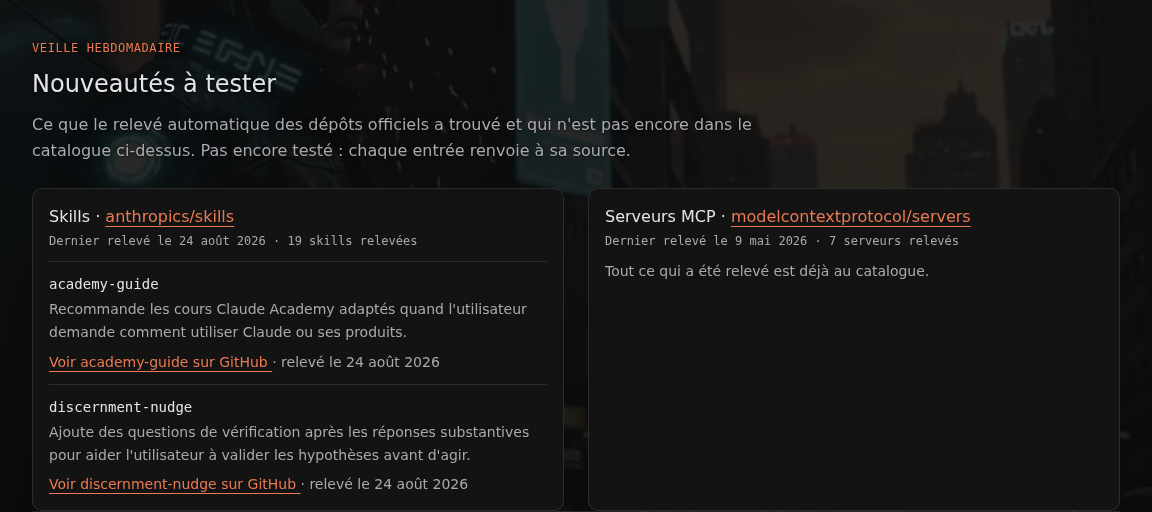
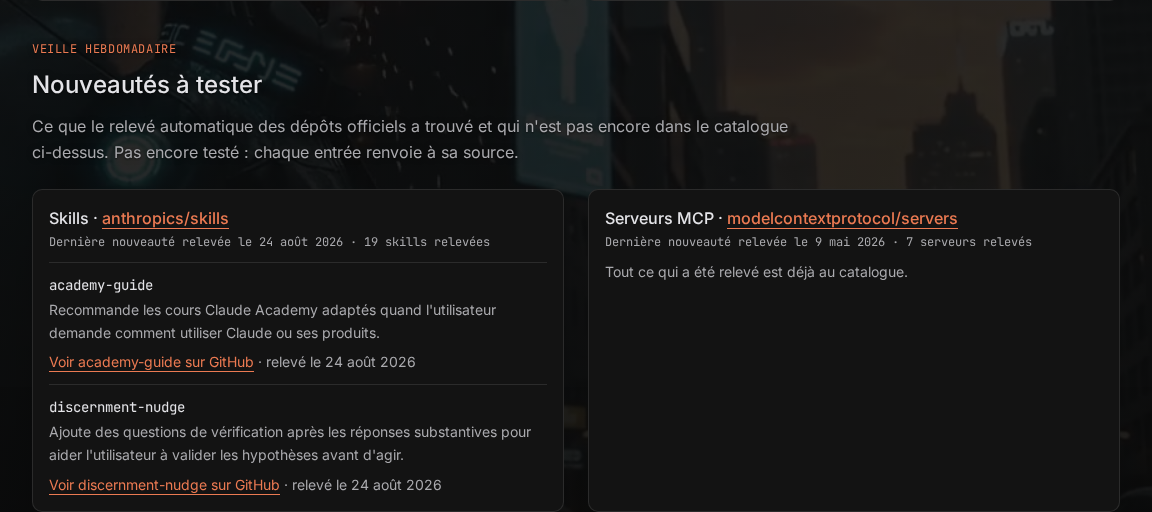
fix(L35): « Dernier relevé le » date le dernier passage du batch, plus la dernière nouveauté
Revue de code de L35 : la date venait du plus grand fetchedAt, que le batch ne pose
qu'à la première apparition d'un élément (MCP « 9 mai » alors que le batch a tourné
le 23-11). Le batch note désormais l'instant de chaque passage réussi d'une source
dans frontend/src/data/feeds/derniers-releves.json (une source en échec ne bouge pas
sa date) ; le bloc affiche « Dernier relevé le » de ce fichier, sinon « Dernière
nouveauté relevée le » (fetchedAt). Fichier vide au départ : aucune date de passage
n'est prouvée avant le prochain batch.

Tests : l35-dernier-releve (échoue avec l'ancien calcul, branche flux vide rendue,
batch), l35 unitaires et e2e ajustés. README (/ecosystem, section du batch),
docs/qa/expectations.md, entrée Nouveautés et capture mises à jour.

diff --git a/scripts/lib/feeds.ts b/scripts/lib/feeds.ts
@@ -10,6 +10,31 @@ export function feedPath(source: string): string {
   return resolve(FEEDS_DIR, `${source}.json`);
 }
 
+/**
+ * L35 — date du dernier passage RÉUSSI du batch sur chaque source ({ "<source>": "<ISO>" }).
+ * Le `fetchedAt` d'une entrée n'est posé qu'à sa première apparition : il date la dernière
+ * nouveauté, pas le dernier relevé. /ecosystem lit ce fichier au build (« Dernier relevé le … »).
+ */
+export const RELEVES_PATH = resolve(FEEDS_DIR, "derniers-releves.json");
+
+export function readReleves(path = RELEVES_PATH): Record<string, string> {
+  if (!existsSync(path)) return {};
+  try {
+    const data = JSON.parse(readFileSync(path, "utf-8"));
+    return data && typeof data === "object" && !Array.isArray(data) ? data : {};
+  } catch {
+    return {};
+  }
+}
+
+/** Note le passage réussi de `source` à `instant`, sans toucher aux autres sources. */
+export function writeReleve(source: string, instant: string, path = RELEVES_PATH): void {
+  const releves = { ...readReleves(path), [source]: instant };
+  const tries = Object.fromEntries(Object.entries(releves).sort(([a], [b]) => a.localeCompare(b)));
+  mkdirSync(dirname(path), { recursive: true });
+  writeFileSync(path, JSON.stringify(tries, null, 2) + "\n");
+}
+
 export function hashUrl(url: string): string {
   return createHash("sha256").update(url).digest("hex").slice(0, 16);
 }

diff --git a/scripts/batch-update.ts b/scripts/batch-update.ts
@@ -18,7 +18,7 @@
 import { mkdirSync, writeFileSync } from "node:fs";
 import { resolve } from "node:path";
 
-import { FEEDS_DIR, ROOT, readFeed, writeFeed } from "./lib/feeds.js";
+import { FEEDS_DIR, ROOT, readFeed, writeFeed, writeReleve } from "./lib/feeds.js";
 import type { RawEntry, SourceModule } from "./lib/types.js";
 import { summarize } from "./lib/claude.js";
 import { processSource, type ProcessDeps } from "./lib/process-source.js";
@@ -74,13 +74,13 @@ async function summarizeWithFallback(
 }
 
 function depsFor(opts: Options): ProcessDeps {
+  const previewDir = "/tmp/codex-feeds";
   return {
     readFeed,
     summarize: (raw, source) =>
       summarizeWithFallback(raw, source, opts.noSummarize),
     writeFeed: (source, entries) => {
       if (opts.dryRun) {
-        const previewDir = "/tmp/codex-feeds";
         mkdirSync(previewDir, { recursive: true });
         writeFileSync(
           resolve(previewDir, `${source}.json`),
@@ -91,6 +91,10 @@ function depsFor(opts: Options): ProcessDeps {
         writeFeed(source, entries);
         console.log(`  wrote ${entries.length} entries to feeds/${source}.json`);
       }
+    },
+    noteReleve: (source, instant) => {
+      if (opts.dryRun) writeReleve(source, instant, resolve(previewDir, "derniers-releves.json"));
+      else writeReleve(source, instant);
     },
   };
 }

diff --git a/scripts/lib/process-source.ts b/scripts/lib/process-source.ts
@@ -13,6 +13,11 @@ export interface ProcessDeps {
   writeFeed(source: string, entries: FeedEntry[]): void;
   summarize(raw: RawEntry, source: string): Promise<string>;
   now?(): string;
+  /**
+   * L35 : appelé une fois la source relevée et son flux écrit, avec l'instant du passage.
+   * Une source en échec (exception) ne l'atteint pas : sa date de dernier relevé ne bouge pas.
+   */
+  noteReleve?(source: string, instant: string): void;
 }
 
 export async function processSource(
@@ -66,5 +71,6 @@ export async function processSource(
 
   const merged = dedupeByUrl(existing, fresh, 50);
   deps.writeFeed(source.NAME, merged);
+  deps.noteReleve?.(source.NAME, now);
   return { source: source.NAME, added, total: merged.length };
 }

diff --git a/README.md b/README.md
@@ -21,7 +21,7 @@ officielle avec Anthropic.
 |------|-------|
 | `/start` | **Démarrer** — Claude Code pour les vrais débutants. Pas de jargon, 7 sections progressives, exemples copy-pastable. La porte d'entrée du site. |
 | `/theory` | Comment Claude Code fonctionne sous le capot — architecture agentique, context window, sessions, hooks, slash commands, MCP, skills, agents SDK · bloc de revue du contenu |
-| `/ecosystem` | Catalogue triable des plugins, MCP servers, skills officiels Anthropic et SDKs, puis **Actualités de l'écosystème** : nouveautés retenues par la veille, la plus récente en tête, chacune datée (publication ou relevé) et sourcée (`frontend/src/data/veille-ecosysteme.mjs`). Porte le bloc de revue du contenu (voir [Revue du contenu](#revue-du-contenu)) |
+| `/ecosystem` | Catalogue triable des plugins, MCP servers, skills officiels Anthropic et SDKs, puis **Actualités de l'écosystème** : nouveautés retenues par la veille, la plus récente en tête, chacune datée (publication ou relevé) et sourcée (`frontend/src/data/veille-ecosysteme.mjs`), puis **Nouveautés à tester** : les skills d'anthropics/skills et les serveurs MCP de modelcontextprotocol/servers relevés par le batch hebdomadaire et absents du catalogue, avec leur lien, leur résumé et la date du dernier relevé de chaque flux (lus au build dans `frontend/src/data/feeds/`, voir [le batch](#mise-à-jour-hebdo)). Porte le bloc de revue du contenu (voir [Revue du contenu](#revue-du-contenu)) |
 | `/case-studies` | 7 deep-dives d'apps perso construites en pair-programming + récits transverses (K8s migration overnight, AetherWX encyclopedia, **Cadence** — la méthode de travail, ses chiffres mesurés et ses échecs, illustrée par trois schémas SVG (plan relié aux commits, parcours d'un lot, chaîne du livreur ; les schémas Mermaid, comme ceux de l'étude AetherWX, gardent un texte rendu à 11 px ou plus à 360–390 px et défilent dans leur cadre quand ils sont plus larges que l'écran) lisibles en thème clair et sombre — composants `Schema`, `StepChain` (description accessible du svg composée des étapes : titre, détail, qui), `Callout` —, `/case-studies/cadence`, et **Pourquoi cadence** — les cinq besoins qui l'ont fait naître, sa définition en une phrase, les preuves chiffrées du banc A/B, chacune datée et sourcée dans le dépôt cadence, et ce que les mesures ne prouvent pas, `/case-studies/pourquoi-cadence`) + section **Tools tested** (RTK adopté, Ruflo rejeté+8 leçons, code-review-graph adopt-conditional) ; la liste des outils testés porte le bloc de revue du contenu |
 | `/atelier-ia` | L'atelier IA perso — quels outils (Claude Code, Codex…), quels rôles, quelles frontières |
 | `/k8s-for-java-developers` | **Guide** — introduction Kubernetes pour dev Java, du jar au pod |
@@ -125,6 +125,17 @@ lundi à 06:00 UTC :
 
 Le composant `LatestNews.astro` lit ces feeds JSON au build time pour
 afficher les 10 articles les plus récents sur `/learning`.
+
+Le composant `NouveautesATester.astro` (`/ecosystem`) lit au build
+`github-anthropics-skills.json` et `github-mcp-servers.json` : il montre les
+éléments absents du catalogue (`frontend/src/data/ecosystem.ts`, même lien ou
+même nom). Le batch note aussi, pour chaque source relevée sans erreur, l'instant
+de son passage dans `frontend/src/data/feeds/derniers-releves.json` : c'est la
+date « Dernier relevé le … » du bloc. Le `fetchedAt` d'une entrée n'est posé
+qu'à sa première apparition ; il ne date que la dernière nouveauté, et le bloc
+n'affiche que « Dernière nouveauté relevée le … » tant qu'aucun passage n'est
+noté. Le build échoue si un lien de ces flux sort du dépôt de la source, si un
+fichier de flux manque ou si une date est illisible.
 
 Secrets requis dans le repo GitHub : `ANTHROPIC_API_KEY`, `YOUTUBE_API_KEY`
 (optionnel, pour `/videos`).

diff --git a/docs/qa/expectations.md b/docs/qa/expectations.md
@@ -43,9 +43,9 @@ shows: chaque schéma rendu (svg présent) ; texte SVG ≥ 11 px rendus à 390 p
 shows: h1 non vide ; contenu non vide (au moins 4 000 caractères de texte) ; liens sortants avec un href réel
 
 ## /ecosystem/ — nouveautés à tester (L35)
-shows: section « Nouveautés à tester » (`[data-a-tester]`) ; un bloc par flux, `[data-flux="github-anthropics-skills"]` et `[data-flux="github-mcp-servers"]`, chacun avec « Dernier relevé le <date> · <n> … » ; au moins une entrée tant que le flux des skills a un élément hors catalogue, chacune avec un lien « Voir <nom> sur GitHub » identique à une `url` de frontend/src/data/feeds/ et « relevé le <date> » ; un bloc sans nouveauté dit « Tout ce qui a été relevé est déjà au catalogue. » ; à 390 px, aucun défilement latéral
-never: une entrée déjà au catalogue (même lien source ou même nom) ; un lien qui ne vient pas d'un flux ; un bloc vide sans message ; un en-tête YAML brut (`---`, `name:`) dans un extrait
-Test : `tests/l35-nouveautes-a-tester.test.mjs` et `tests/l35-nouveautes-a-tester.e2e.test.mjs`.
+shows: section « Nouveautés à tester » (`[data-a-tester]`) ; un bloc par flux, `[data-flux="github-anthropics-skills"]` et `[data-flux="github-mcp-servers"]`, chacun avec « Dernier relevé le <date> · <n> … », la date étant le jour du dernier passage du batch noté dans frontend/src/data/feeds/derniers-releves.json (sans passage noté : « Dernière nouveauté relevée le <date> · <n> … », sans élément : « Aucun relevé pour l'instant » et « Rien à montrer. ») ; au moins une entrée tant que le flux des skills a un élément hors catalogue, chacune avec un lien « Voir <nom> sur GitHub » identique à une `url` de frontend/src/data/feeds/ et « relevé le <date> » ; un bloc sans nouveauté dit « Tout ce qui a été relevé est déjà au catalogue. » ; à 390 px, aucun défilement latéral
+never: « Dernier relevé le » daté d'un fetchedAt (date de la dernière nouveauté, pas du relevé) ; une entrée déjà au catalogue (même lien source ou même nom) ; un lien qui ne vient pas d'un flux ; un bloc vide sans message ; un en-tête YAML brut (`---`, `name:`) dans un extrait
+Test : `tests/l35-nouveautes-a-tester.test.mjs`, `tests/l35-dernier-releve.test.mjs` et `tests/l35-nouveautes-a-tester.e2e.test.mjs`.
 
 ## /<route inexistante>/
 shows: statut 404 (livré par L28) ; h1 « Cette page n'existe pas » ; un lien « Retour à l'accueil » vers /

diff --git a/docs/nouveautes/2026-11-27-l-ecosysteme-montre-les-nouveautes-a-tester.md b/docs/nouveautes/2026-11-27-l-ecosysteme-montre-les-nouveautes-a-tester.md
@@ -4,10 +4,10 @@ date: 2026-11-27
 created: 2026-11-27T10:10+01:00
 lots: [L35]
 captures:
-  - { file: captures/L35-nouveautes-a-tester.png, alt: "La section « Nouveautés à tester » de la page Écosystème : à gauche les skills du dépôt anthropics/skills, dernier relevé le 24 août 2026, avec academy-guide et discernment-nudge, chacune avec son résumé et son lien GitHub ; à droite les serveurs MCP de modelcontextprotocol/servers, dernier relevé le 9 mai 2026, tous déjà au catalogue" }
+  - { file: captures/L35-nouveautes-a-tester.png, alt: "La section « Nouveautés à tester » de la page Écosystème : à gauche les skills du dépôt anthropics/skills, dernière nouveauté relevée le 24 août 2026, avec academy-guide et discernment-nudge, chacune avec son résumé et son lien GitHub ; à droite les serveurs MCP de modelcontextprotocol/servers, dernière nouveauté relevée le 9 mai 2026, tous déjà au catalogue" }
 ---
 La page Écosystème a une section « Nouveautés à tester » : ce que le relevé hebdomadaire des dépôts officiels a trouvé et qui n'est pas encore au catalogue.
 
-- **Skills** du dépôt anthropics/skills et **serveurs MCP** du dépôt modelcontextprotocol/servers, chacun dans son bloc avec la date de son dernier relevé.
+- **Skills** du dépôt anthropics/skills et **serveurs MCP** du dépôt modelcontextprotocol/servers, chacun dans son bloc avec la date de son dernier relevé hebdomadaire ; tant que cette date n'est pas connue, le bloc donne la date de sa dernière nouveauté relevée.
 - Chaque entrée donne son nom, le résumé du relevé quand il en existe un, son lien GitHub et le jour où elle a été relevée.
-- Quand tout ce qui a été relevé est déjà au catalogue, le bloc le dit.
+- Quand tout ce qui a été relevé est déjà au catalogue, ou qu'un flux n'a encore rien relevé, le bloc le dit.
